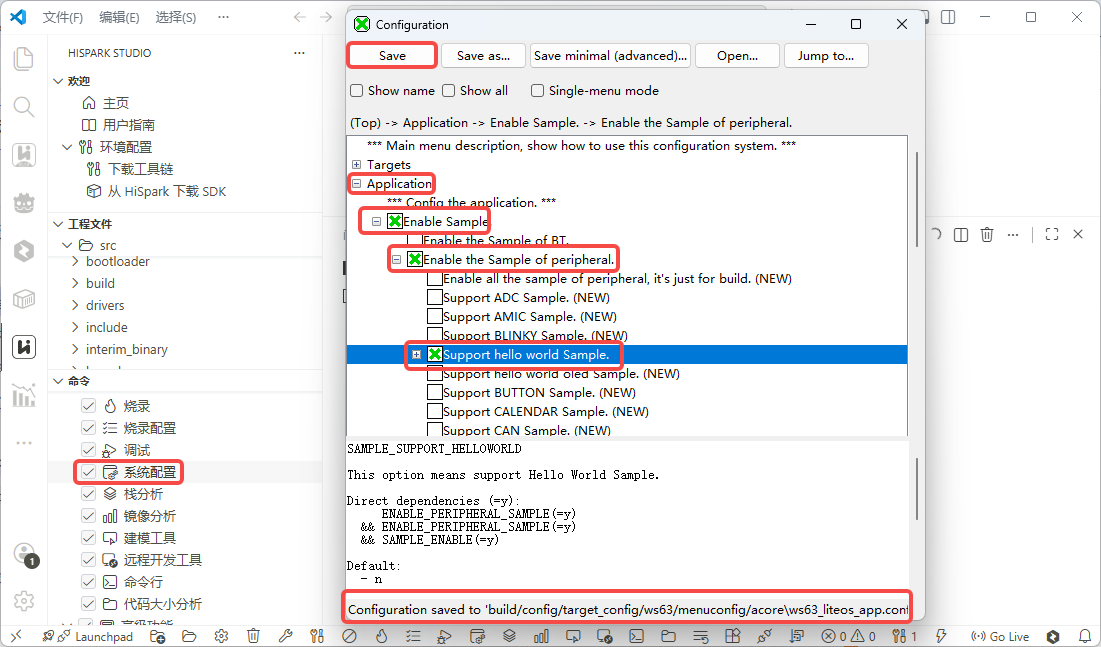
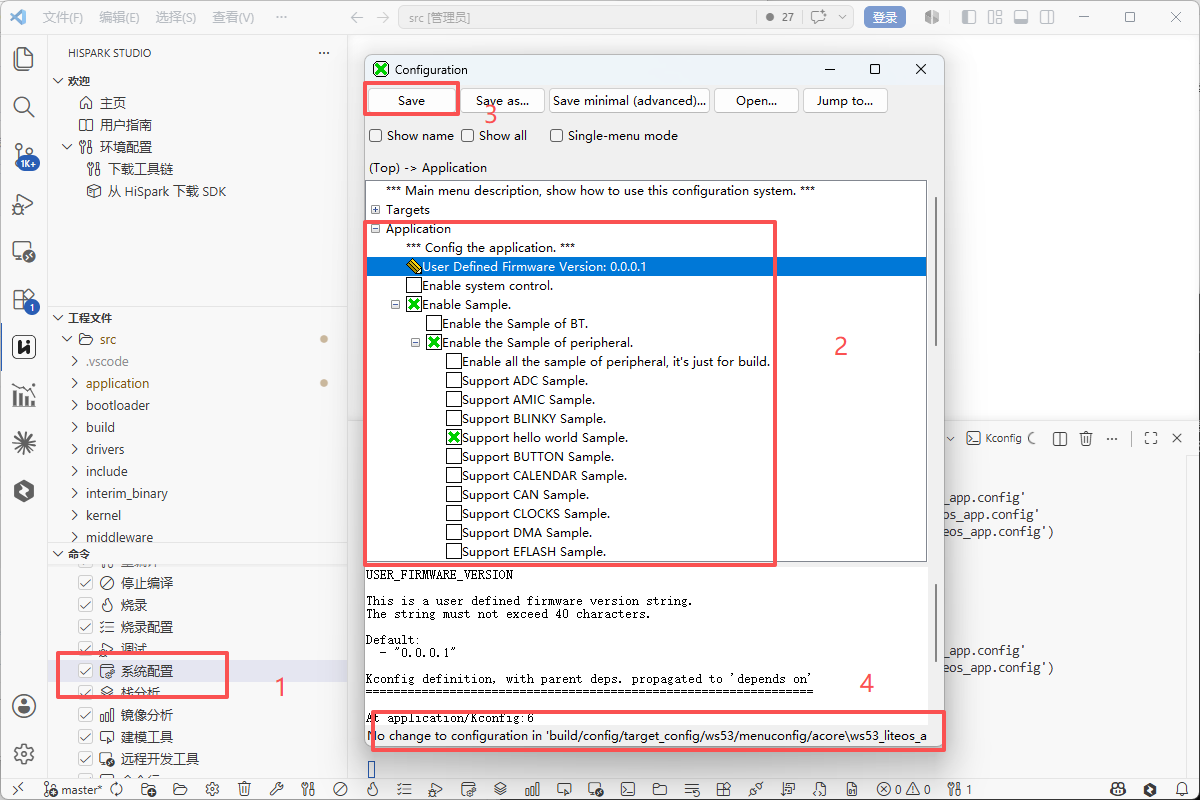
docs: add WS53 Hello World quick start

Changed region(s): [[0.0, 0.0, 1.0, 1.0], [0.9264, 0.0, 0.9573, 0.0309], [0.6794, 0.1236, 0.7103, 0.1546]]

diff --git a/src/application/samples/peripheral/helloworld/helloworld.c b/src/application/samples/peripheral/helloworld/helloworld.c
@@ -1,0 +1,38 @@
+/**
+ * Copyright (c) HiSilicon (Shanghai) Technologies Co., Ltd. 2023-2023. All rights reserved.
+ *
+ * Description: Hello World Sample Source. \n
+ */
+
+#include "common_def.h"
+#include "soc_osal.h"
+#include "app_init.h"
+
+#define DEFAULT_TASK_STACK_SIZE         0x1000
+#define DEFAULT_TASK_PRIORITY           26
+#define DELAYS_MS                       1000
+
+static void *hw_task(const char *arg)
+{
+    unused(arg);
+    osal_printk("start helloworld sample\r\n");
+    for (;;) {
+        osal_printk("hello world\r\n");
+        osal_msleep(DELAYS_MS);
+    }
+    return NULL;
+}
+
+static void helloworld_entry(void)
+{
+    osal_task *task_handle = NULL;
+    osal_kthread_lock();
+    task_handle = osal_kthread_create((osal_kthread_handler)hw_task, NULL, "HW_Task", DEFAULT_TASK_STACK_SIZE);
+    if (task_handle != NULL) {
+        osal_kthread_set_priority(task_handle, DEFAULT_TASK_PRIORITY);
+    }
+    osal_kthread_unlock();
+}
+
+/* Run the helloworld_entry. */
+app_run(helloworld_entry);

diff --git a/docs/zh-CN/get-started/quick-start.md b/docs/zh-CN/get-started/quick-start.md
@@ -1,94 +1,94 @@
 # 快速开始
 
-本文档介绍如何快速完成 ws53 系列开发板的工程创建、编译和烧录。
+本文档介绍如何快速完成 WS53 系列开发板的工程创建、编译、烧录和运行验证。
 
 ## 第一个程序：Hello World
 
 本节默认当前用户已完成环境搭建，将引导用户从创建工程开始，完成编译、烧录，最终在串口输出 "hello world"。
 
-> 安装 IDE (Integrated Development Environment)、插件、配置工具链、获取 SDK等必要环境配置步骤，请参考 [环境搭建](environment-setup.md){ target=_blank }。
+> 安装 IDE（Integrated Development Environment，集成开发环境）、插件、配置工具链和获取 SDK 等准备工作，请参考[环境搭建](environment-setup.md)。
 
 
 ### 新建工程 {#新建工程}
 
-1. 打开 HiSpark Studio 插件，进入`欢迎使用`页面，然后单击`新建工程`
+1. 打开 HiSpark Studio 插件，进入“欢迎使用”页面，然后单击“新建工程”。
 
     ![HiSpark Studio 欢迎页面](figures/点击新建工程.png)
 
-1. 在`新建工程`窗口配置参数：
+2. 在“新建工程”窗口配置参数：
 
     ![新建工程窗口](figures/新建工程配置.png)
 
-    - **芯片**：选择 `ws53`
+    - **芯片**：选择 `WS53`
     - **开发板**：选择芯片后会自动填充芯片的开发板名称
-    - **工程类型**：选择`示例工程`
+    - **工程类型**：选择“示例工程”
     - **工程名**：自定义工程名称（如 `HelloWorld`）
     - **工程路径**：选择工程存放目录
-    - **软件包**：选择下载好的 `ws53 SDK` 文件夹根目录（需要选择到 `src` 目录）
+    - **软件包**：选择已下载 WS53 SDK 的 `src` 目录
 
-3. 点击`完成`新建工程
-4. 如弹出 `是否信任此文件夹中的文件的作者` 确认提示窗口，点击 `是，我信任此作者` 即可。
+3. 单击“完成”创建工程。
+4. 如弹出“是否信任此文件夹中的文件的作者”确认窗口，单击“是，我信任此作者”。
 
 ### 编译工程
 
-1. 工程创建成功后，HiSpark Studio 会自动打开新创建的工程，重新点击HiSpark Studio图标，进入插件页面。
+1. 工程创建成功后，HiSpark Studio 会自动打开新工程。再次单击 HiSpark Studio 图标进入插件页面。
 
     ![新工程界面](figures/新工程界面.png)
 
-    - **工程文件**：包含`src`目录下的所有文件，以及`include`目录下的头文件。
+    - **工程文件**：包含 `src` 目录下的所有文件，以及 `include` 目录下的头文件。
     - **命令**：包含编译、调试、烧录等操作按钮。
-    - 底部快捷按钮：与`命令`面板中的按钮对应，方便快捷操作。
+    - **底部快捷按钮**：与“命令”面板中的按钮对应。
 
-2. 点击`命令`面板中的`系统配置`按钮，弹出配置窗口，依次点击 `Application` -> `Enable Sample` -> `Enable the Sample of peripheral` -> `Support hello world Sample` -> `Save` 保存，保存成功后在配置窗口底部会提示\`Configuration saved to ...\`后关闭即可。
+2. 单击“命令”面板中的“系统配置”，在配置窗口中依次选择 `Application` → `Enable Sample` → `Enable the Sample of peripheral` → `Support hello world Sample`。
+
+    如果 `Enable the Sample of BT` 或其他示例已经启用，请先将其关闭，避免多个示例同时编译和运行。单击 `Save` 后，确认窗口底部显示的保存路径以 `build/config/target_config/ws53/menuconfig/acore/ws53_liteos_app.config` 结尾，然后关闭配置窗口。
 
     ![select\_sample](figures/配置sample-helloworld.png)
 
-3. 点击左侧 `命令` 面板的 `编译` 按钮，进行编译，也可以使用 `重编译` 先清理再编译，等待编译完成，终端窗口输出 `SUCCESS` 表示编译成功
+3. 单击左侧“命令”面板中的“编译”；如需先清理已有产物，可选择“重编译”。终端窗口输出 `SUCCESS` 表示编译成功。
 
     ![编译按钮](figures/编译helloworld-sample.png)
 
 
 ### 硬件连接
 
-1. 打开设备管理器，可以使用快捷键 `Win + X`，选择 `设备管理器`
+1. 使用快捷键 `Win + X` 打开菜单，然后选择“设备管理器”。
 
     ![设备管理器](figures/设备管理器-端口信息.png)
 
-2. 使用 Type-C USB (Universal Serial Bus) 数据线连接开发板的 USB 端口和电脑的 USB 接口，确认开发板上电后电源指示灯亮起
-3. 查看当前设备管理器显示的新设备，通常为 CH340 设备，如下图示的 `COM4`，是本文示例开发板的端口号，以实际显示的端口号为准。
+2. 使用 Type-C USB（Universal Serial Bus，通用串行总线）数据线连接开发板与电脑，确认开发板上电且电源指示灯亮起。
+3. 查看设备管理器中新出现的串口，通常显示为 CH340 设备。记录实际端口号，后续烧录和监视均使用该端口。
 
     ![设备管理器显示新设备](figures/设备管理器-新设备端口.png)
 
 ### 配置烧录
 
-1. 点击左侧 `命令` 面板的 `工程配置` 按钮，在弹出的配置窗口中选择 `程序加载` 选项卡
+1. 单击左侧“命令”面板中的“工程配置”，在配置窗口中选择“程序加载”。
 
     ![工程配置入口](figures/sample-helloworld-工程配置.png)
 
 2. 配置烧录参数：
 
     - **传输方式**：选择 `serial`（串口烧录）
-    - **烧写文件**：默认即可（当前工程目录下的 `output\ws53\fwpkg\ws53-liteos-app\ws53-liteos-app_all.fwpkg`）
-    - **端口选择**：在设备管理器中查看 COM 口, 如 `COM5`
+    - **烧写文件**：使用当前工程目录下的 `output/ws53/fwpkg/ws53-liteos-app/ws53-liteos-app_all.fwpkg`
+    - **端口选择**：选择硬件连接步骤中记录的实际 COM 口
     - **波特率**：选择 `921600`
 
 ### 开始烧录
 
-1. 点击左侧 `命令` 面板的 `烧录` 按钮触发烧录，当控制台显示的内容出现类似 `Reset the device...` 的提示时，
+1. 单击左侧“命令”面板中的“烧录”。当控制台显示 `Connect the device by pressing the reset button...` 或类似复位提示时，按下开发板上的 `RST` 按钮。
 
     ![烧录按钮入口](figures/烧录-复位提示.png)
 
-2. 按下开发板上的 `RST` 复位按钮
+    ![开发板 RST 复位按键说明](figures/bearpi-rst.png)
 
-    ![开发板RST复位按键说明](figures/bearpi-rst.png)
-
-2. 等待烧录完成，显示类似 `All images burnt successfully` 内容时表示烧录成功
+2. 等待烧录完成。控制台显示 `All images burnt successfully` 表示烧录成功。
 
     ![烧录成功](figures/烧录-成功.png)
 
 ### 验证结果
 
-1. 点击左侧 `命令` 面板的 `命令行` 打开终端窗口，然后再选择 `监视器`，监视模式选择 `Serial`，根据单板连接后在设备管理器中实际显示的端口号选择端口 （如 `COM4`），设置波特率 `115200`，点击 `开始监视` 按钮。
+1. 单击左侧“命令”面板中的“命令行”打开终端窗口，然后选择“监视器”。监视模式选择 `Serial`，端口选择烧录时使用的 COM 口，波特率设置为 `115200`，再单击“开始监视”。
 
     ![切换到监视器选项卡](figures/监视器-连接串口.png)
 
@@ -111,7 +111,7 @@ static void *hw_task(const char *arg)
 {
     unused(arg);
     osal_printk("start helloworld sample\r\n");
-    for(;;){
+    for (;;) {
         osal_printk("hello world\r\n");
         osal_msleep(DELAYS_MS);
     }
@@ -122,7 +122,7 @@ static void helloworld_entry(void)
 {
     osal_task *task_handle = NULL;
     osal_kthread_lock();
-    task_handle = osal_kthread_create((osal_kthread_handler)hw_task, 0,
+    task_handle = osal_kthread_create((osal_kthread_handler)hw_task, NULL,
                                        "HW_Task", DEFAULT_TASK_STACK_SIZE);
     if (task_handle != NULL) {
         osal_kthread_set_priority(task_handle, DEFAULT_TASK_PRIORITY);
